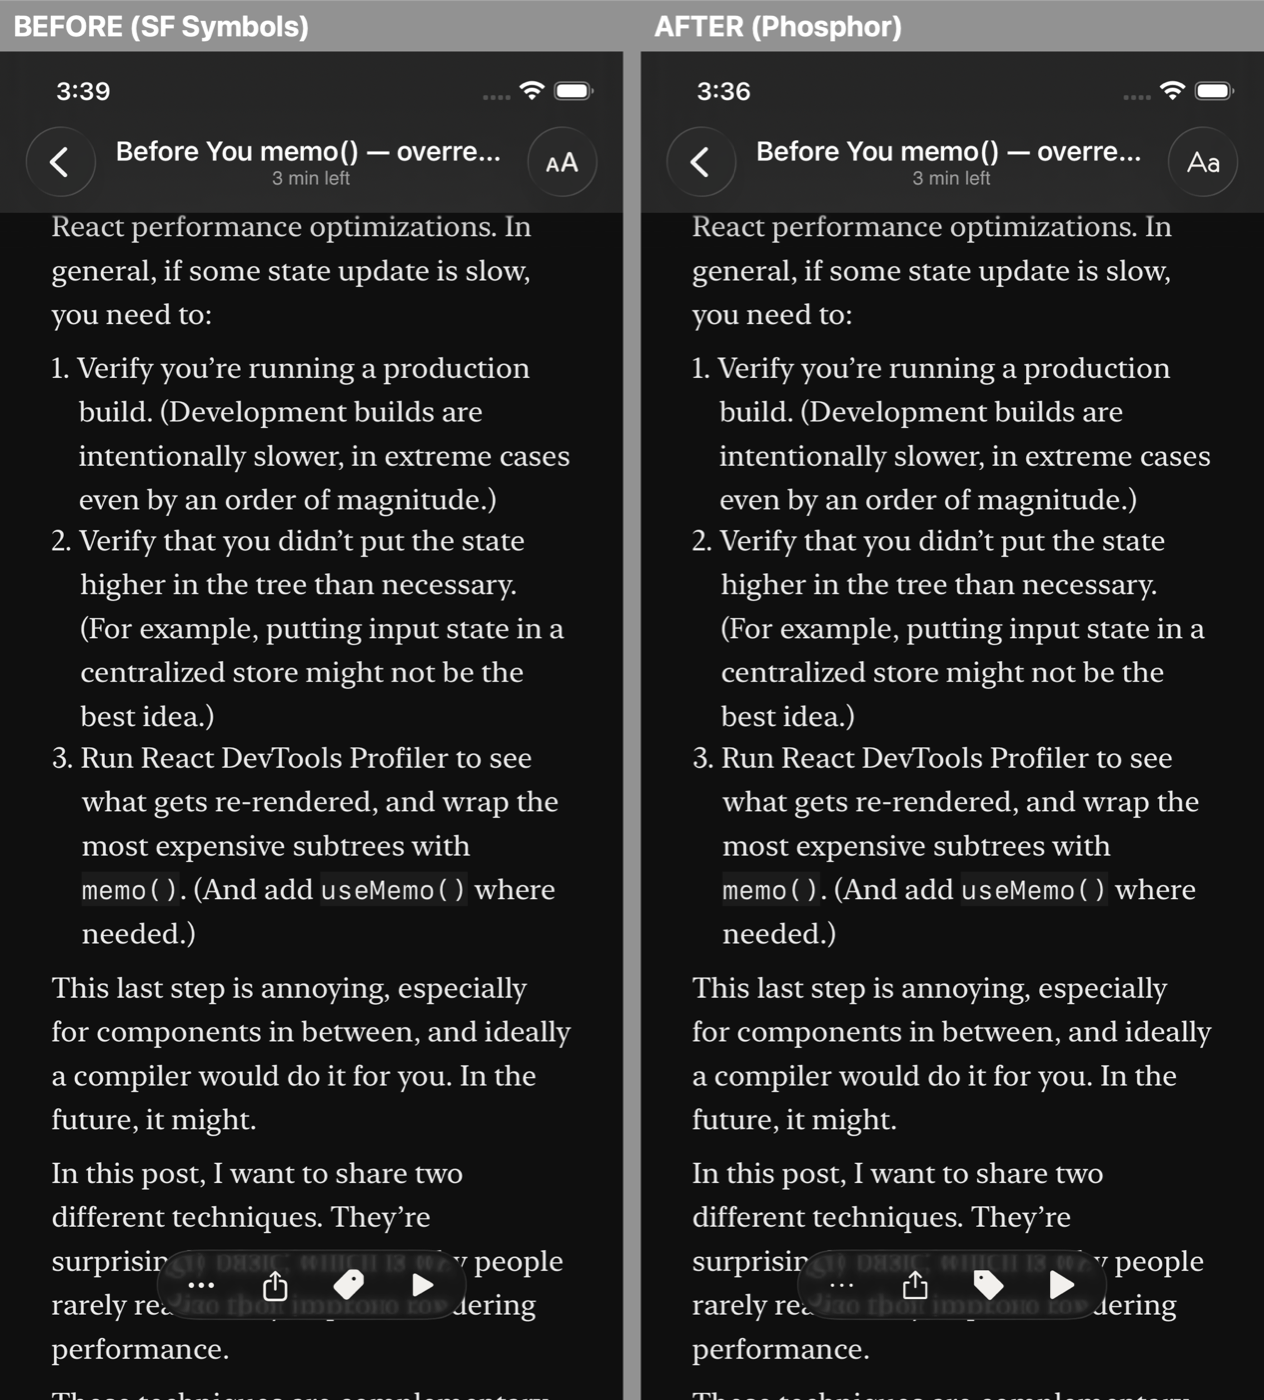
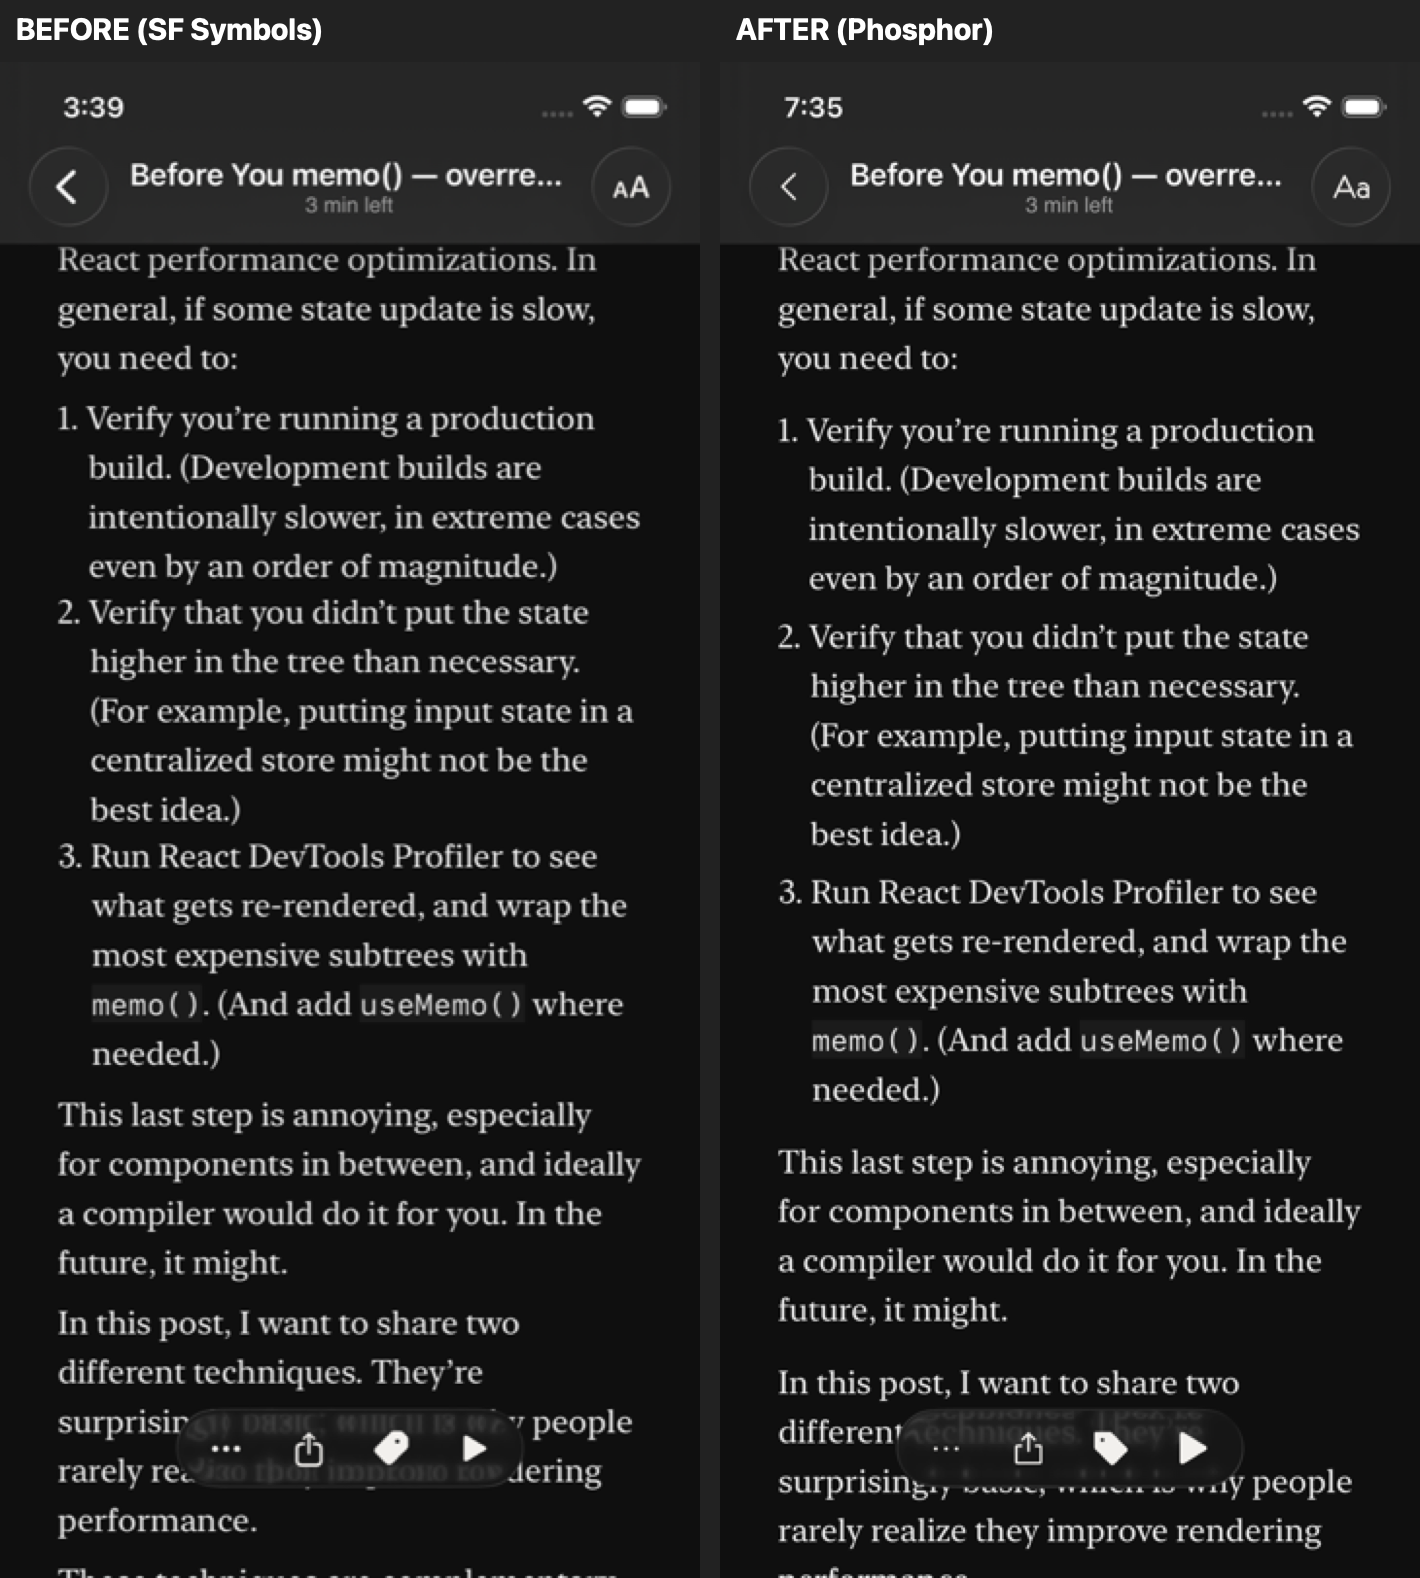
Fix the two review notes on the Phosphor pass
**The reader's floating bar really did still have an old icon**, and the
zero-`systemName:` grep was never going to find it. `NavigationStack` draws
its own back chevron: no call site names it, so it survived the sweep
invisibly, sitting in the reader's floating top capsule beside the Phosphor
`text-aa` — and disagreeing with itself, because every layer-1 root draws
`SidebarBackButton` (Phosphor `caret-left`) in exactly that slot. The leading
glyph changed shape the moment you opened an article.

`UINavigationBar.appearance().backIndicatorImage` does not reach it. Tried,
built, measured: iOS 26's toolbar draws the glass back button itself and
ignores the indicator art, on the legacy proxy properties and on all four
`UINavigationBarAppearance` objects. So the button is replaced outright with a
`topBarLeading` item, which keeps the system glass circle because that comes
from the toolbar slot rather than from the button. Nothing is lost by hiding
the system one: the same synthetic edge pan pops `Site logins` in Settings and
pops nothing in the reader, on the build before this change and the build
after — the reader's interactive pop is already owned by its full-screen text
view.

Both readers are covered by construction, not by luck: the toolbar and
`floatingPlayer` live in `ReaderView.body`, outside the switch that picks
`BlockReaderView` or `HighlightableTextView`. Verified anyway in the simulator
— plain and block, idle and playing, light and dark, plus the C3 recovery
[…]

Changed region(s): [[0.0, 0.0, 1.0, 1.0], [0.0309, 0.0921, 0.4628, 1.0], [0.3703, 0.8907, 0.432, 0.9521]]

diff --git a/ReadLater/Features/Reader/ReaderView.swift b/ReadLater/Features/Reader/ReaderView.swift
@@ -4,6 +4,9 @@ import SwiftData
 struct ReaderView: View {
     @Environment(\.modelContext) private var context
     @Environment(\.colorScheme) private var colorScheme
+    /// Pops the reader. Drives the Phosphor back caret below, which stands in
+    /// for the system back button.
+    @Environment(\.dismiss) private var dismiss
     /// **M3.** Reduce Motion is not optional, and the reader is where most of
     /// the app's animation lives — every chrome reveal below resolves through
     /// `chromeAnimation`, which consults this.
@@ -153,7 +156,34 @@ struct ReaderView: View {
         .toolbar(showChrome ? .visible : .hidden, for: .navigationBar)
         .statusBarHidden(!showChrome)
         .toolbar(.hidden, for: .bottomBar)
+        // **I1 — the last SF Symbol on screen.** `NavigationStack` draws its
+        // own back chevron, so no call site names it and no `systemName:` grep
+        // can find it: it survived the Phosphor pass invisibly, sitting in the
+        // reader's floating top capsule beside the Phosphor `text-aa` and
+        // disagreeing with the `caret-left` every layer-1 root shows in the
+        // same slot (`SidebarBackButton`).
+        //
+        // Swapping `UINavigationBar.appearance().backIndicatorImage` (plus the
+        // four `UINavigationBarAppearance` objects) does NOT reach it — tried,
+        // measured, no change: iOS 26's toolbar draws the glass back button
+        // itself and ignores the indicator art. So the button is replaced
+        // outright. It still wears the system glass circle, because that comes
+        // from the toolbar slot rather than from the button.
+        //
+        // Nothing is lost by hiding the system button here: the reader's
+        // interactive edge-swipe pop is already owned by the full-screen text
+        // view, verified by driving the same synthetic edge pan against both
+        // builds — it pops `Site logins` in Settings and pops nothing in the
+        // reader, before this change and after it. The back caret is the
+        // reader's back affordance either way.
+        .navigationBarBackButtonHidden(true)
         .toolbar {
+            ToolbarItem(placement: .topBarLeading) {
+                Button { dismiss() } label: {
+                    Image(.caretLeft).uiGlyph()
+                }
+                .accessibilityLabel("Back")
+            }
             if article.isVideoArticle {
                 ToolbarItem(placement: .topBarTrailing) {
                     Button(action: watchOnYouTube) {

diff --git a/ReadLater/UI/Icon.swift b/ReadLater/UI/Icon.swift
@@ -30,8 +30,8 @@ enum Icon: String, CaseIterable {
     case arrowsClockwise     = "ph.arrows-clockwise"
     /// Phosphor `bookmark` (regular) — was `bookmark`.
     case bookmark            = "ph.bookmark"
-    /// Phosphor `books` (regular) — was `books.vertical`.
-    case books               = "ph.books"
+    /// Phosphor `cards-three` (regular) — was `books.vertical`.
+    case cardsThree          = "ph.cards-three"
     /// Phosphor `caret-left` (regular) — was `chevron.left`.
     case caretLeft           = "ph.caret-left"
     /// Phosphor `caret-right` (regular) — was `chevron.right`.

diff --git a/ReadLater/Features/Sidebar/SidebarPanel.swift b/ReadLater/Features/Sidebar/SidebarPanel.swift
@@ -48,7 +48,7 @@ struct SidebarPanel: View {
             // No rule under the header (S2). The header's own padding and the
             // list's ground are the separation.
             List {
-                row(.library, title: "Library", icon: .books,
+                row(.library, title: "Library", icon: .cardsThree,
                     count: articles.count)
                 row(.allItems, title: "All items", icon: .tray,
                     count: unreadEntries.count)

diff --git a/ReadLater/Features/Library/LibraryView.swift b/ReadLater/Features/Library/LibraryView.swift
@@ -78,7 +78,7 @@ struct LibraryView: View {
     /// names rendered as the screen's one prominent capsule.
     private var emptyState: EmptyStateView {
         EmptyStateView(
-            mark: .books,
+            mark: .cardsThree,
             title: "Nothing saved yet",
             message: "Share a link from Safari, or paste one here, and it lands in your library ready to read.",
             actionTitle: "Add a link",

diff --git a/tools/phosphor_symbols.py b/tools/phosphor_symbols.py
@@ -79,7 +79,9 @@ ICONS = [
     ("arrowClockwise",      "arrow-clockwise",      "regular", "arrow.clockwise"),
     ("arrowsClockwise",     "arrows-clockwise",     "regular", "arrow.triangle.2.circlepath"),
     ("bookmark",            "bookmark",             "regular", "bookmark"),
-    ("books",               "books",                "regular", "books.vertical"),
+    # Ellen on #81: "let's use cards-three instead of books for library since
+    # this isn't a book app." `books` is retired — nothing else named it.
+    ("cardsThree",          "cards-three",          "regular", "books.vertical"),
     ("caretLeft",           "caret-left",           "regular", "chevron.left"),
     ("caretRight",          "caret-right",          "regular", "chevron.right"),
     ("chats",               "chats",                "regular", "bubble.left.and.bubble.right"),

diff --git a/docs/design-language.md b/docs/design-language.md
@@ -347,6 +347,11 @@ Each has one structural advantage the other lacks, which is what makes this a re
 
 - **I11. No partial migration.** *(Discharged.)* The wave got its own branch and its own dependency decision, and shipped end to end in one change. The rule survives as a forward constraint: the app is on one icon set, and a glyph from a second set is never smuggled in beside it.
 - **I12.** *(Discharged.)* Phosphor replaced the substrate wholesale. Every rule in §5.1–5.2 carried over unchanged.
+**Erratum — the glyph with no call site.** The first pass reported the reader's back chevron as unreachable OS chrome, on the reasoning that `NavigationStack` draws its own back button and there is nothing to convert. Ellen caught it on review: the reader's floating top capsule still wore `chevron.left` while every layer-1 root wore Phosphor `caret-left` in the same slot, so the leading glyph changed shape the moment you opened an article. It **is** reachable — `.navigationBarBackButtonHidden(true)` plus a `topBarLeading` button keeps the system's glass circle and costs nothing, because the reader's edge-swipe pop is owned by its full-screen text view either way. What does *not* work, and was tried: `UINavigationBar.appearance().backIndicatorImage` and the four `UINavigationBarAppearance` objects — iOS 26's toolbar draws the glass back button itself and ignores the indicator art. Settings' pushed sub-screens still show the system chevron; they are the remaining instance of this.
+
+Two lessons generalise. A `systemName:` grep is not proof of a completed swap, because the glyphs that survive one are precisely the ones no call site names. And a swap is not reviewable from full-screen phone-sized screenshots: several Phosphor glyphs (`export`, `dots-three`, `play`) are near-identical in silhouette to their SF ancestors at 17pt, which is why this bar read as "unchanged" and why the one glyph that genuinely *was* unchanged hid in plain sight. Evidence for an icon change is a zoomed crop.
+
+- **I14. Library is `cards-three`, not `books`** *(ratified by Ellen on #81: "let's use cards-three instead of books for library since this isn't a book app")*. Saved articles are cards in a stack, and the app is not a reader of books. `books` is retired from the manifest.
 - **I13. The icon set is vendored, not depended on, and it is generated.** `tools/phosphor_symbols.py` pulls the SVGs the app actually uses out of `phosphor-icons/core` and writes `Shared/Resources/PhosphorSymbols.xcassets` plus the `Icon` enum that names them. Adding an icon is a line in that script's manifest and a re-run — never a hand-authored `.symbolset`, never a string literal at a call site. `Icon` is the only surface: no view names an asset.
 
 ---
